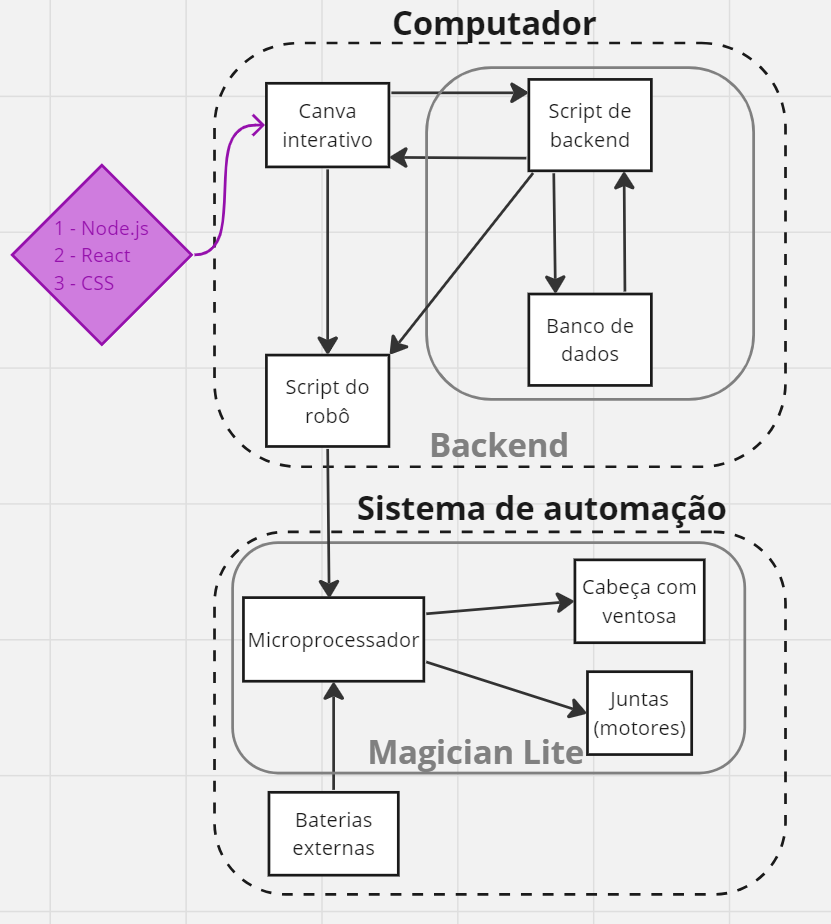
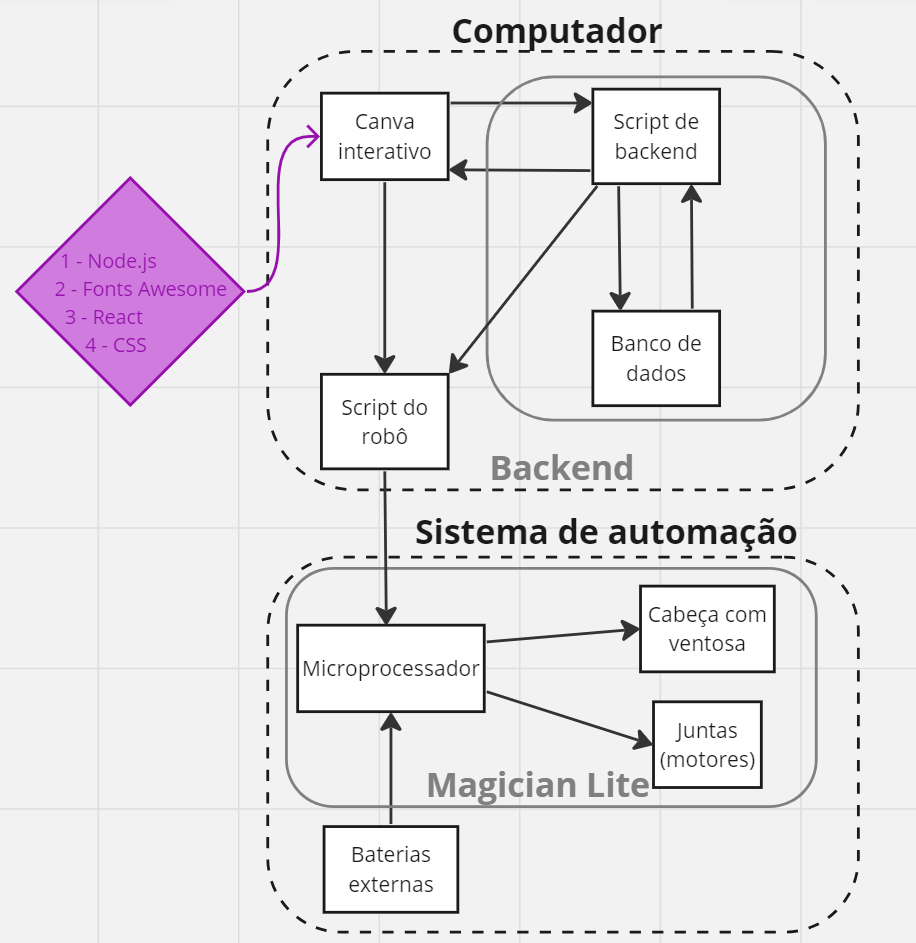
docs: techs update & grammar fixes

diff --git a/documentacao/docs/sprint-4/frontend/tecnologias.md b/documentacao/docs/sprint-4/frontend/tecnologias.md
@@ -13,7 +13,11 @@ custom_edit_url: null
 
 &emsp;&emsp;React é uma biblioteca de desenvolvimento frontend baseada na criação e implementação facilitadas de componentes. Componentes são partes visuais simples do frontend de um sistema que podem possuir comportamentos independentes e, juntos, formar uma interface complexa. No contexto da solução desenvolvida pela equipe Violeta, essa funcionalidade permitiu, por exemplo, a criação de componentes que representam compartimentos dos layouts dos carrinhos de emergência que são reabastecidos pelo robô de braço mecânico.
 
-## 3. CSS
+## 3. Font Awesome
+
+&emsp;&emsp;Font Awesome é uma biblioteca que disponibiliza ícones, fontes, entre outros itens visuais para desenvolvimento frontend. No projeto, ela foi utilizada em conjunto com o React para, principalmente, a implementação de ícones nas páginas da aplicação web da solução web.
+
+## 4. CSS
 
 &emsp;&emsp;CSS (Cascade Style Sheets) é uma linguagem para definição de estilo em páginas web. Sua função não é criar algoritmos por meio de programação ou definir a estrutura de uma página web, mas sim como é apresentado o estilo visual dessa estrutura que está ligada à parte de programação. Dentro do projeto desenvolvido, o CSS foi utilizado para ajustar cores, tamanho, formato, entre outras características dos componentes feitos a partir de React.
 

diff --git a/documentacao/docs/sprint-3/Backend/inicializacao.md b/documentacao/docs/sprint-3/Backend/inicializacao.md
@@ -8,7 +8,7 @@ custom_edit_url: null
 ## Pré-requisitos
 
 - Python instalado
-- PIP instaldo
+- PIP instalado
 - Git instalado
 - Chave SSH configurada na sua conta do GitHub
 - Robô Dobot Magician conectado ao computador via USB

diff --git a/documentacao/docs/sprint-4/frontend/inicializacao.md b/documentacao/docs/sprint-4/frontend/inicializacao.md
@@ -8,7 +8,7 @@ custom_edit_url: null
 ## Pré-requisitos
 
 - Python instalado
-- PIP instaldo
+- PIP instalado
 - Git instalado
 - Chave SSH configurada na sua conta do GitHub
 - Robô Dobot Magician conectado ao computador via USB
